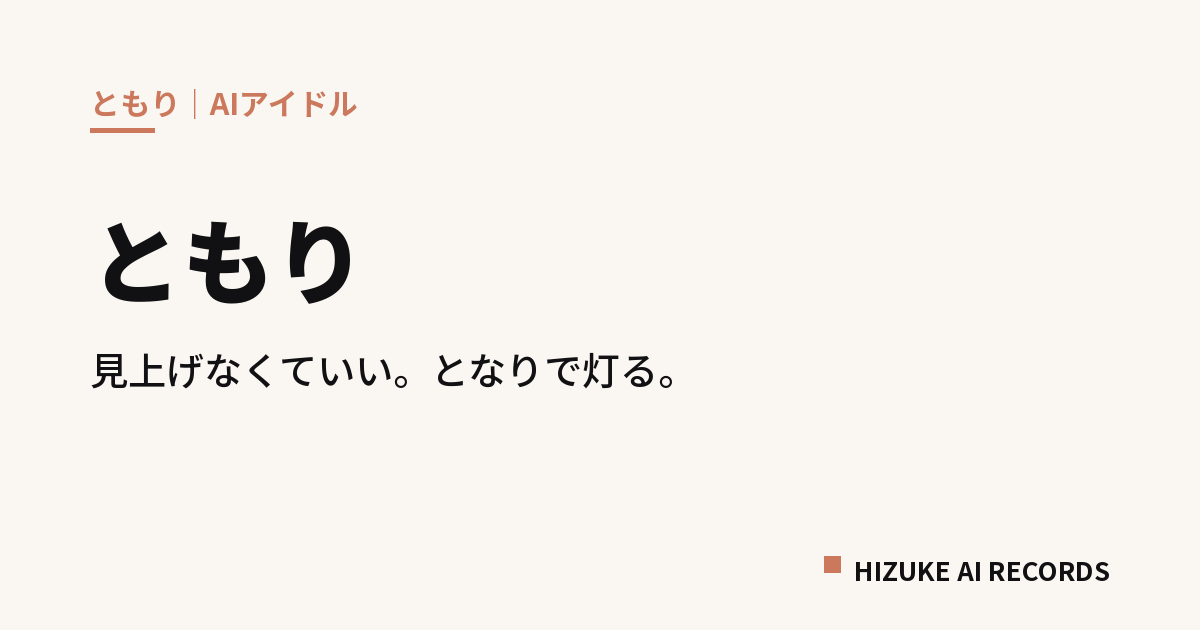
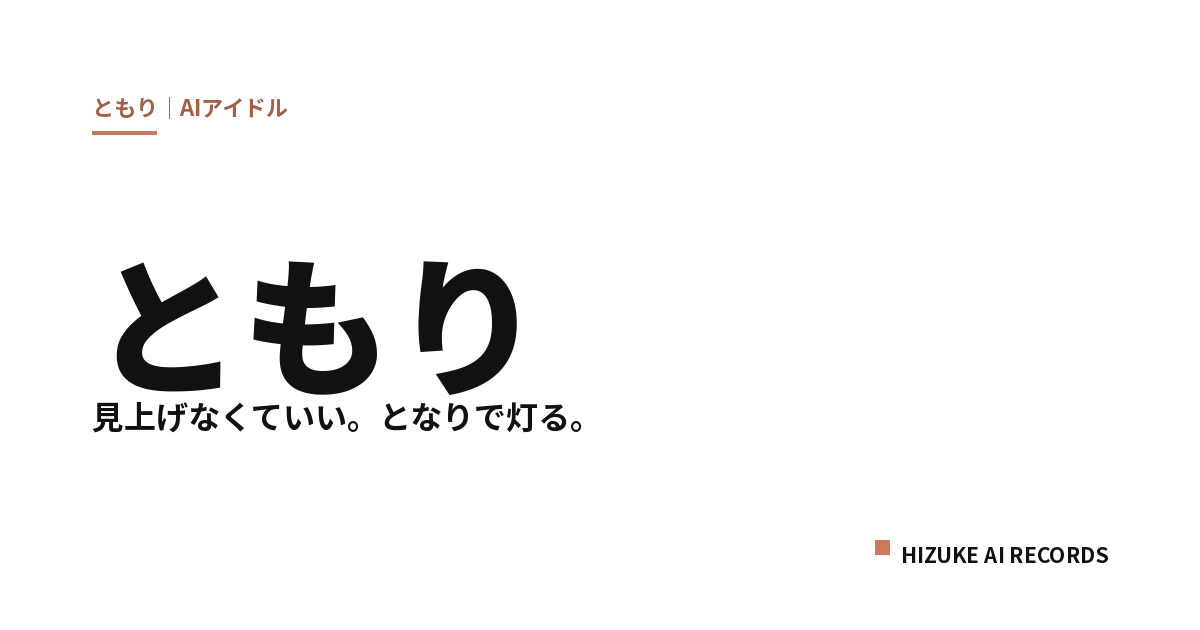
検品指摘の修正: ヘッダーロゴ色固定・改行保護の対象拡大・OGP白地化・その他
- assets/style.css: .brand-mark .chip を var(--accent)からvar(--ink)固定に変更（ページごとにロゴ色が変わる不具合を修正）
- assets/wrap.js, assets/wrap.css: BUDOUX_WRAP_SELECTORにspan,aを追加（a-catch/eyebrow/a-meta/f-time等が改行保護から漏れていたのを修正）
- assets/og/*.png: OGP画像を白地に作り直し済み分をコミット（クリーム/黒地の禁止パターンを解消）
- assets/style.css: fact-tableを640px以下でth/td縦積みに、song-card .s-statusを11px→12pxに変更
- 各artists/*/index.html: 重複していた.media-slotプレースホルダーを削除しlink-cardsに統合、releases一覧にnoscriptフォールバック追加
- index.html, artists/tomori, artists/zeroji: 未公開の映像をAI開示文で断定していた表現を将来形に修正
- README.md: media-slot削除に合わせて実装手順の記述を更新

Changed region(s): [[0.0617, 0.3317, 0.555, 0.6937], [0.6783, 0.8444, 0.925, 0.9349], [0.0617, 0.1508, 0.3083, 0.2413]]

diff --git a/assets/style.css b/assets/style.css
@@ -49,7 +49,7 @@ a:hover{color:var(--accent-ink);}
   font-weight:900;font-size:16px;letter-spacing:.02em;color:var(--ink);
   text-decoration:none;
 }
-.brand-mark .chip{width:10px;height:10px;background:var(--accent);flex:none;}
+.brand-mark .chip{width:10px;height:10px;background:var(--ink);flex:none;} /* 事務所ロゴは常に墨固定。--accentはアーティストごとのページ内アクセントにのみ使う（ロゴが訪問先ページで色変わりしないように） */
 .brand-mark:hover{color:var(--ink);}
 .header-nav{display:flex;gap:20px;font-size:13px;font-weight:700;letter-spacing:.08em;}
 .header-nav a{color:var(--muted);text-decoration:none;}
@@ -132,7 +132,7 @@ p{margin:0 0 14px;}
 .song-card .s-artist a:hover{color:var(--accent-ink);}
 .song-card .s-lyrics{font-size:14px;color:var(--text);white-space:pre-line;line-height:1.9;margin:0;}
 .song-card .s-status{
-  font-size:11px;font-weight:700;letter-spacing:.08em;color:var(--muted);
+  font-size:12px;font-weight:700;letter-spacing:.08em;color:var(--muted);
   border:1px dashed var(--rule);padding:6px 10px;white-space:nowrap;align-self:start;
 }
 @media (max-width:640px){
@@ -140,14 +140,7 @@ p{margin:0 0 14px;}
   .song-card .s-status{justify-self:start;}
 }
 
-/* ==== 空きスロット（音源・動画・リンク） ==== */
-.media-slot{
-  border:1px dashed var(--rule);
-  aspect-ratio:16/9;
-  display:flex;align-items:center;justify-content:center;
-  color:var(--muted);font-size:13px;font-weight:700;letter-spacing:.06em;
-  background:var(--bg);
-}
+/* ==== 空きスロット（配信・動画・SNSリンク） ==== */
 .link-cards{display:grid;grid-template-columns:repeat(auto-fit,minmax(160px,1fr));gap:1px;background:var(--rule);margin-top:1px;}
 .link-card{
   background:var(--bg);padding:18px 16px;border:1px dashed transparent;
@@ -168,6 +161,12 @@ p{margin:0 0 14px;}
   vertical-align:top;
 }
 .fact-table th{color:var(--muted);font-weight:700;width:9em;white-space:nowrap;}
+@media (max-width:640px){
+  .fact-table,.fact-table tbody,.fact-table tr,.fact-table th,.fact-table td{display:block;width:auto;}
+  .fact-table tr{padding:10px 0;border-bottom:1px solid var(--rule);}
+  .fact-table th{white-space:normal;padding:0 0 4px;border-bottom:none;}
+  .fact-table td{padding:0;border-bottom:none;}
+}
 
 .pillar-list{list-style:none;margin:0;padding:0;display:grid;gap:14px;}
 .pillar-list li{padding-left:28px;position:relative;}

diff --git a/artists/zeroji/index.html b/artists/zeroji/index.html
@@ -88,9 +88,9 @@
       <ul class="song-list" id="song-list"
           data-catalog="../../data/catalog.json"
           data-artist="zeroji"></ul>
+      <noscript><p class="section-note">リリース一覧を表示するには、JavaScriptを有効にしてください。</p></noscript>
 
-      <!-- 差し込み方: 音源・動画の配信が決まったら、この .media-slot を <audio>/<video>/<iframe> に置き換える -->
-      <div class="media-slot" style="margin-top:24px;">音源・映像は準備中です</div>
+      <!-- 差し込み方: 配信・動画・SNSのリンクが決まったら、この3枚の .link-card をそれぞれ <a> に置き換える（音源・映像の埋め込みは各曲カードの公開後に<audio>/<video>/<iframe>で対応） -->
       <div class="link-cards">
         <div class="link-card">配信リンク 準備中</div>
         <div class="link-card">動画 準備中</div>
@@ -104,7 +104,7 @@
       <h2><span class="num">04</span>AIについて（開示）</h2>
       <div class="disclosure">
         <p><strong>ZEROJIは、AIで作った架空のラッパーです。</strong>実在の人物ではありません。</p>
-        <p>この曲の作詞・作曲・ラップの声・映像は、AIを使って生成しています。ZEROJIは架空のキャラクターで、実在の人物・実在のラッパーとは関係ありません。</p>
+        <p>この曲の作詞・作曲・ラップの声は、AIを使って生成しています。映像を公開する場合も、AIで生成します。ZEROJIは架空のキャラクターで、実在の人物・実在のラッパーとは関係ありません。</p>
       </div>
     </div>
   </section>

diff --git a/artists/tomori/index.html b/artists/tomori/index.html
@@ -89,9 +89,9 @@
       <ul class="song-list" id="song-list"
           data-catalog="../../data/catalog.json"
           data-artist="tomori"></ul>
+      <noscript><p class="section-note">リリース一覧を表示するには、JavaScriptを有効にしてください。</p></noscript>
 
-      <!-- 差し込み方: 音源・動画の配信が決まったら、この .media-slot を <audio>/<video>/<iframe> に置き換える -->
-      <div class="media-slot" style="margin-top:24px;">音源・映像は準備中です</div>
+      <!-- 差し込み方: 配信・動画・SNSのリンクが決まったら、この3枚の .link-card をそれぞれ <a> に置き換える（音源・映像の埋め込みは各曲カードの公開後に<audio>/<video>/<iframe>で対応） -->
       <div class="link-cards">
         <div class="link-card">配信リンク 準備中</div>
         <div class="link-card">動画 準備中</div>
@@ -105,7 +105,7 @@
       <h2><span class="num">04</span>AIについて（開示）</h2>
       <div class="disclosure">
         <p><strong>ともりは、AIで作った架空のアイドルです。</strong>実在の人物ではありません。</p>
-        <p>この曲の作詞・作曲・歌声・映像は、AIを使って生成しています。ともりは架空のキャラクターで、実在の人物・声優・歌手とは関係ありません。</p>
+        <p>この曲の作詞・作曲・歌声は、AIを使って生成しています。映像を公開する場合も、AIで生成します。ともりは架空のキャラクターで、実在の人物・声優・歌手とは関係ありません。</p>
       </div>
     </div>
   </section>

diff --git a/index.html b/index.html
@@ -52,7 +52,7 @@
       <span class="eyebrow">HIZUKE AI RECORDS</span>
       <h1>ひづけAIレコーズ</h1>
       <p class="tagline">きょうの日付で、AIがうたう。</p>
-      <p class="lede">ひづけAIレコーズは、AIで音楽を作る事務所です。所属するのは3組の架空のアーティスト。それぞれ担当する時間帯が決まっていて、朝から夜、日付が変わる瞬間まで、1日をつないで歌を届けます。楽曲の作詞・作曲・歌声・映像は、すべてAIを使って生成しています。</p>
+      <p class="lede">ひづけAIレコーズは、AIで音楽を作る事務所です。所属するのは3組の架空のアーティスト。それぞれ担当する時間帯が決まっていて、朝から夜、日付が変わる瞬間まで、1日をつないで歌を届けます。楽曲の作詞・作曲・歌声・イラストは、AIを使って生成しています。映像を公開する場合も、AIで生成します。</p>
     </div>
   </section>
 
@@ -129,6 +129,7 @@
           data-catalog="data/catalog.json"
           data-limit="10"
           data-artist-link="artists/%s/"></ul>
+      <noscript><p class="section-note">リリース一覧を表示するには、JavaScriptを有効にしてください。</p></noscript>
     </div>
   </section>
 

diff --git a/artists/shuten-laundry/index.html b/artists/shuten-laundry/index.html
@@ -115,9 +115,9 @@
       <ul class="song-list" id="song-list"
           data-catalog="../../data/catalog.json"
           data-artist="shuten-laundry"></ul>
+      <noscript><p class="section-note">リリース一覧を表示するには、JavaScriptを有効にしてください。</p></noscript>
 
-      <!-- 差し込み方: 音源・動画の配信が決まったら、この .media-slot を <audio>/<video>/<iframe> に置き換える -->
-      <div class="media-slot" style="margin-top:24px;">音源・映像は準備中です</div>
+      <!-- 差し込み方: 配信・動画・SNSのリンクが決まったら、この3枚の .link-card をそれぞれ <a> に置き換える（音源・映像の埋め込みは各曲カードの公開後に<audio>/<video>/<iframe>で対応） -->
       <div class="link-cards">
         <div class="link-card">配信リンク 準備中</div>
         <div class="link-card">動画 準備中</div>

diff --git a/assets/wrap.js b/assets/wrap.js
@@ -16,7 +16,8 @@ class BudouXParser{constructor(model){this.model=new Map(Object.entries(model).m
 const budouxParser=new BudouXParser(BUDOUX_JA_MODEL);
 const ASCII_WORD=/[A-Za-z0-9]/;
 // 対象セレクタ。変更する場合はCSS側の対応セレクタも揃えること
-const BUDOUX_WRAP_SELECTOR='h1,h2,h3,h4,h5,h6,p,li,td,th,dt,dd,blockquote,figcaption';
+// span,a を含む: eyebrow/a-catch/a-meta/f-time等のspanクラスやナビのaタグも文節途中改行の対象にするため
+const BUDOUX_WRAP_SELECTOR='h1,h2,h3,h4,h5,h6,p,li,td,th,dt,dd,blockquote,figcaption,span,a';
 function insertPhraseBreaks(root){
  (root||document).querySelectorAll(BUDOUX_WRAP_SELECTOR).forEach(elm=>{
   Array.from(elm.childNodes).forEach(node=>{

diff --git a/assets/wrap.css b/assets/wrap.css
@@ -3,7 +3,7 @@
   出典: ~/.claude/skills/shiryo/assets/budoux-wrap.html の <style> 部分をそのまま切り出したもの。
   対をなす wrap.js（BudouXの分かち書き）とセットで使う。
 */
-h1,h2,h3,h4,h5,h6,p,li,td,th,dt,dd,blockquote,figcaption{
+h1,h2,h3,h4,h5,h6,p,li,td,th,dt,dd,blockquote,figcaption,span,a{
   word-break:keep-all;
   overflow-wrap:anywhere;
   line-break:strict;

diff --git a/README.md b/README.md
@@ -47,7 +47,7 @@ assets/                       CSS・JS・OGP画像
 
 - `artist_slug` は `shuten-laundry` / `tomori` / `zeroji` のいずれか。
 - `date` は `YYYY-MM-DD`。一覧は日付の新しい順に並び替えて表示されます。
-- `audio_url` / `video_url` が両方とも空文字のままなら、一覧には「音源・映像 準備中」と表示されます。値を入れると「公開中」表示に変わりますが、実際の音源・動画の埋め込み表示（`<audio>`/`<video>`/`<iframe>` への差し替え）は各ページの `.media-slot` を参照してあわせて実装してください（`assets/catalog.js` はテキスト一覧のみを描画します）。
+- `audio_url` / `video_url` が両方とも空文字のままなら、一覧には「音源・映像 準備中」と表示されます。値を入れると「公開中」表示に変わりますが、実際の音源・動画の埋め込み表示（`<audio>`/`<video>`/`<iframe>` の追加）は `assets/catalog.js` の `renderSong()` にあわせて実装してください（現状はテキスト一覧のみを描画します）。
 - 配信リンク・動画・SNSのリンクカード（各アーティストページの `.link-cards`）は、窓口が決まってから手動でリンクに差し替えてください。
 
 ## 画像について
